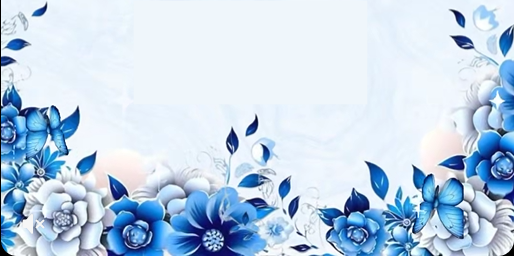
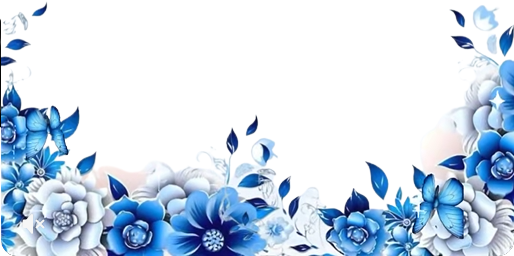
Ajustes finales de estilo y quita la paleta de colores sugeridos
Se agranda y resalta con doble sombra el texto "Mis XV Anos"; el marco
superior tambien sube un 20% mas al hacer scroll. Se quita la seccion de
colores sugeridos del codigo de vestimenta (solo queda el color reservado)
y se actualiza el numero de WhatsApp de confirmacion.

diff --git a/src/app/components/dress-code.component.ts b/src/app/components/dress-code.component.ts
@@ -23,24 +23,6 @@ import { INVITATION_CONFIG } from '../invitation-config';
         <i class="pi pi-sparkles mb-4 text-3xl text-acento" aria-hidden="true"></i>
 
         <h3 class="font-serif text-3xl text-tinta">{{ vestimenta.titulo }}</h3>
-        <p class="mt-2 text-sm font-light text-tinta-suave">
-          Colores sugeridos para nuestros invitados
-        </p>
-
-        <!-- Paleta de colores sugerida -->
-        <div class="mt-6 grid grid-cols-3 gap-4 sm:grid-cols-6">
-          @for (color of vestimenta.paletaSugerida; track color.nombre) {
-            <div class="group flex flex-col items-center gap-2">
-              <span
-                class="h-10 w-10 rounded-full border border-neutro shadow-md transition-transform duration-300 group-hover:scale-110"
-                [style.background-color]="color.hex"
-              ></span>
-              <span class="text-[10px] font-light tracking-wide text-tinta-suave">
-                {{ color.nombre }}
-              </span>
-            </div>
-          }
-        </div>
 
         <!-- Advertencia elegante: color reservado -->
         <div

diff --git a/src/styles.css b/src/styles.css
@@ -440,16 +440,18 @@ body {
   }
 }
 
-/* Marco floral superior: se recorta a la mitad al hacer scroll (FlowerFrameComponent) */
+/* Marco floral superior: se recorta a la mitad y sube un 20% más al hacer scroll (FlowerFrameComponent) */
 .marco-superior {
   transition:
     max-height 1s ease-out,
-    object-position 1s ease-out;
+    object-position 1s ease-out,
+    transform 1s ease-out;
 }
 
 .marco-superior--recortado {
   max-height: 14.4svh;
   object-position: bottom;
+  transform: translateY(-20%);
 }
 
 /* Marco floral inferior: espejo del superior, se recorta hacia el centro al hacer scroll */
@@ -462,4 +464,11 @@ body {
 .marco-inferior--recortado {
   max-height: 14.4svh;
   object-position: top;
+}
+
+/* Halo doble detrás de "Mis XV Años" para que se distinga sobre la imagen de fondo */
+.etiqueta-fondo-doble {
+  text-shadow:
+    0 1px 4px rgba(255, 255, 255, 0.85),
+    0 2px 14px rgba(255, 255, 255, 0.6);
 }

diff --git a/src/app/components/hero.component.ts b/src/app/components/hero.component.ts
@@ -22,7 +22,7 @@ const PASO_LETRA_MS = 70;
 
       <div class="relative flex flex-col items-center gap-6">
         <p
-          class="flex text-sm font-light tracking-[0.4em] text-tinta-suave uppercase"
+          class="etiqueta-fondo-doble flex text-[1.05rem] font-light tracking-[0.4em] text-tinta-suave uppercase"
           aria-label="Mis XV Años"
         >
           @for (letra of etiquetaLetras; track $index) {

diff --git a/src/app/invitation-config.ts b/src/app/invitation-config.ts
@@ -73,7 +73,7 @@ export const INVITATION_CONFIG: InvitationConfig = {
   fraseBienvenida: '¡Acompáñanos a celebrar!',
   fechaEvento: new Date('2026-08-08T18:45:00'),
   codigoPaisWhatsapp: '52',
-  whatsappConfirmacion: '5545329137',
+  whatsappConfirmacion: '5532420009',
   whatsappFelicitaciones: '5638206542',
   familia: {
     grupos: [
